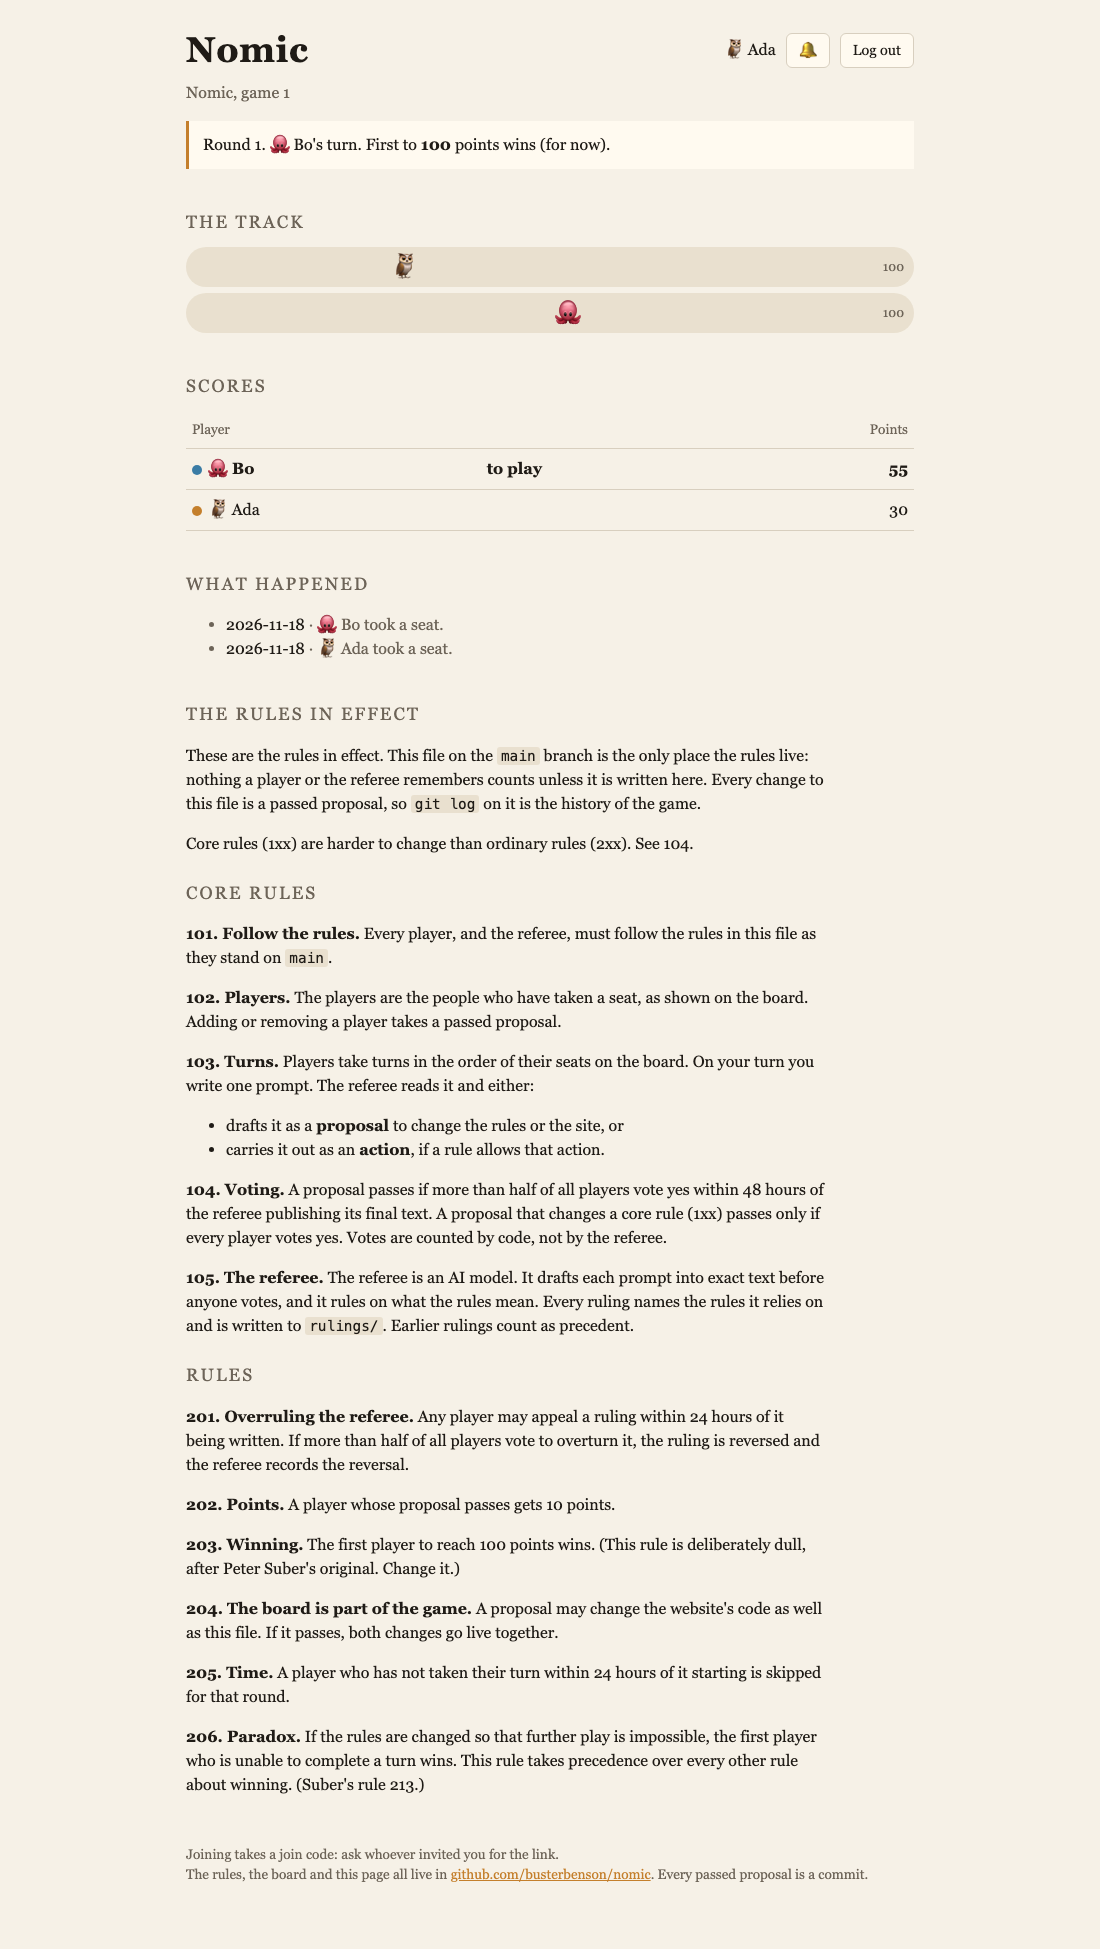
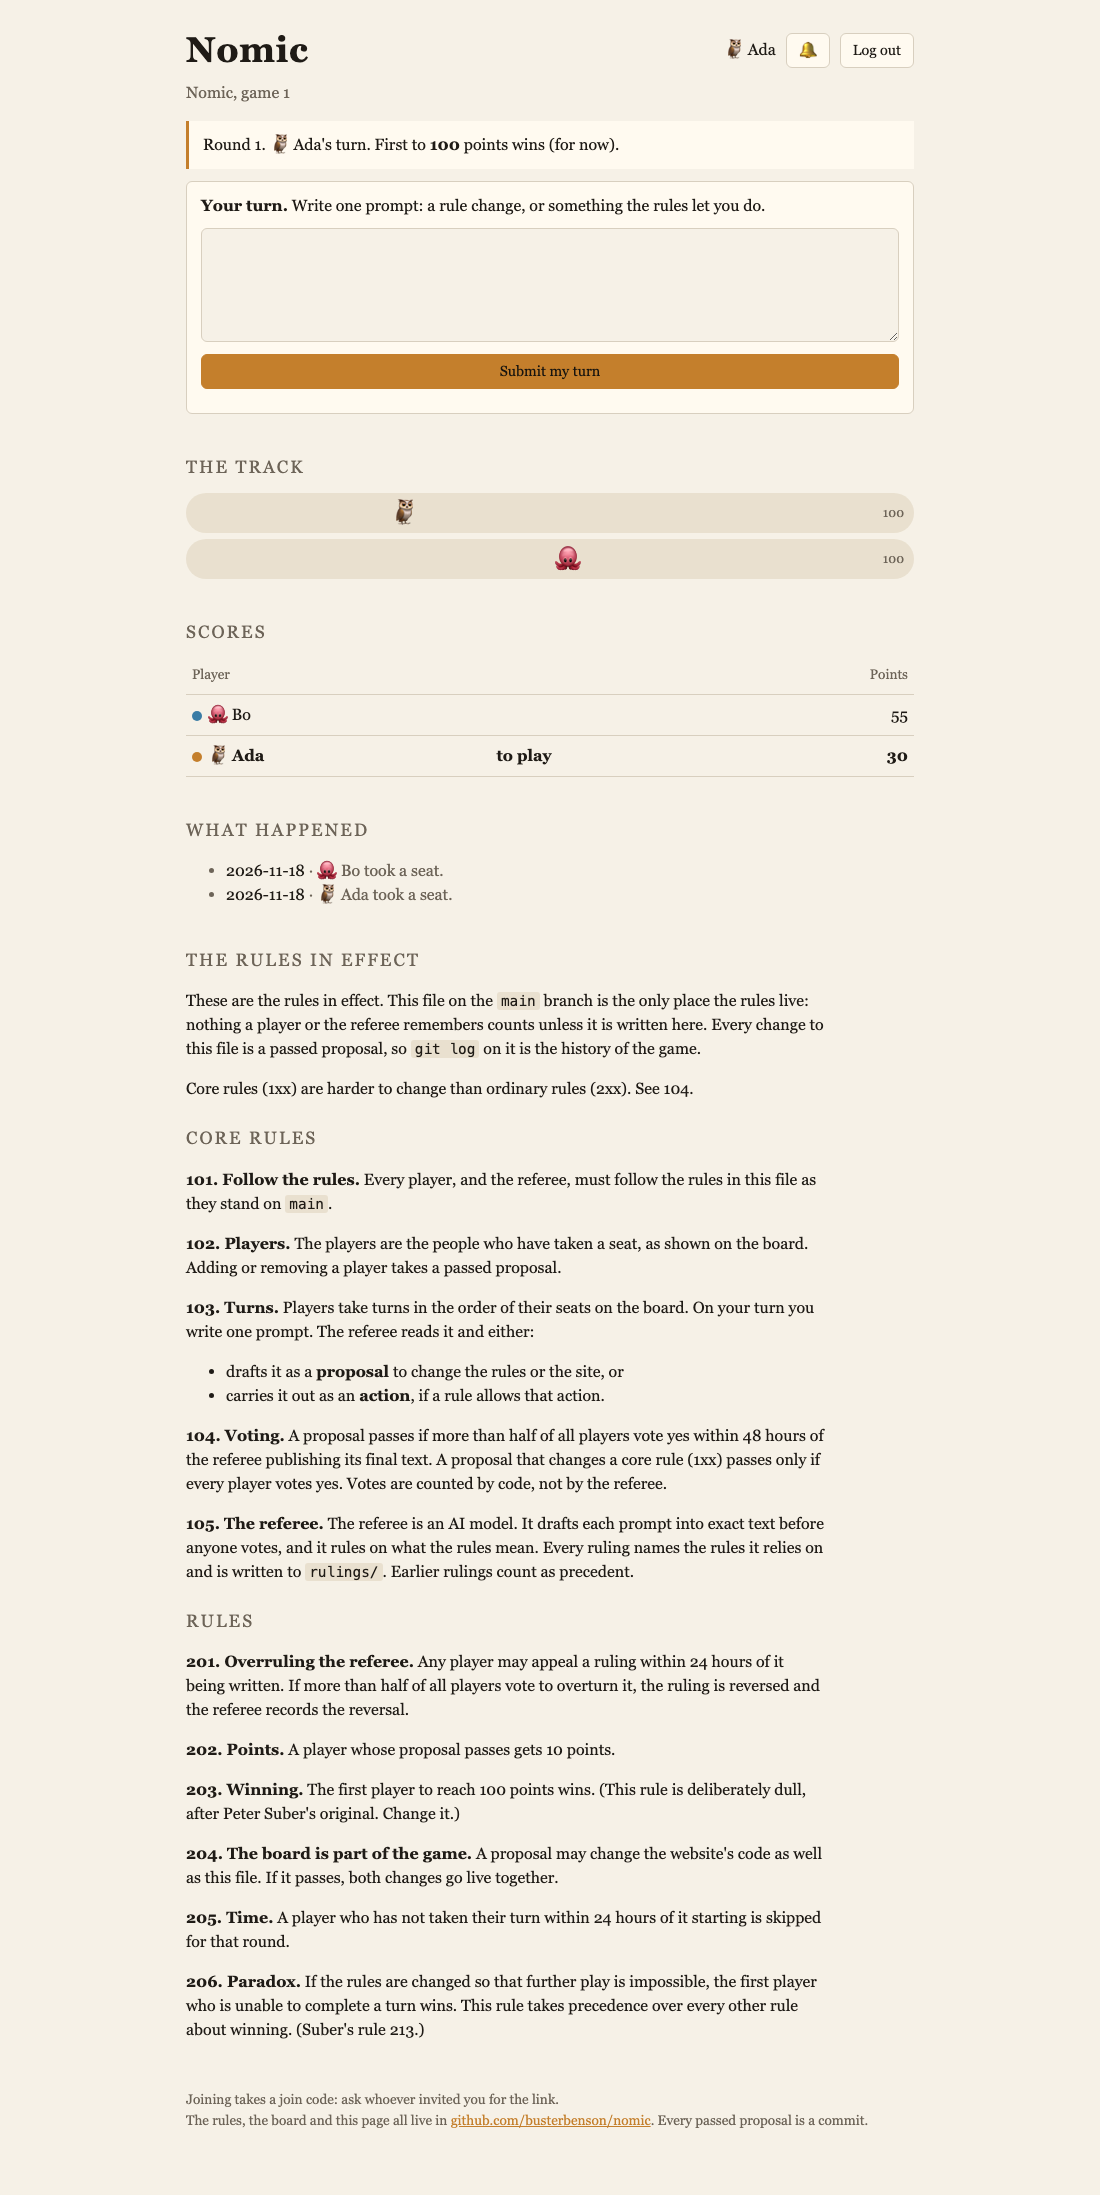
Record turns from the website; keep ZWNJ/ZWJ in names

diff --git a/index.html b/index.html
@@ -26,6 +26,8 @@
   </div>
   <div class="now" id="now">Loading the board…</div>
 
+  <div class="panel" id="turn-box" hidden></div>
+
   <h2>The track</h2>
   <div id="track"></div>
 
@@ -107,6 +109,7 @@
     let data = null; try { data = await res.json(); } catch (e) {}
     return { ok: res.ok, status: res.status, data };
   };
+  let ME = null, DATA = null;   // who is looking, and the last /api/game
   const when = iso => String(iso || "").slice(0, 10);
 
   function showNotice() {
@@ -118,6 +121,8 @@
   async function loadMe() {
     const me = await api("/api/me");
     const who = $("who");
+    ME = me.ok ? me.data : null;
+    drawTurn();
     if (!me.ok) {
       who.innerHTML = '<button id="login-btn" type="button">Log in</button>';
       $("login-btn").onclick = () => { $("login-panel").hidden = !$("login-panel").hidden; };
@@ -178,7 +183,49 @@
     }
   }
 
+  // The turn box: a form for the player whose turn it is, otherwise who is playing.
+  function drawTurn() {
+    const box = $("turn-box");
+    if (!DATA || DATA.game.status !== "playing") { box.hidden = true; return; }
+    const { game, players, turns } = DATA;
+    const current = players[game.turn];
+    if (!current) { box.hidden = true; return; }
+    const mine = ME && ME.player && ME.player.turn_order === game.turn;
+    const taken = turns.find(t => t.turn_index === game.turn);
+    let html = "";
+    if (mine && !taken) {
+      html = `<strong>Your turn.</strong> Write one prompt: a rule change, or something the rules let you do.
+        <form class="stack" id="turn-form" style="margin-top:10px; max-width:none">
+          <textarea name="prompt" rows="4" maxlength="2000" required aria-label="Your prompt"></textarea>
+          <button class="primary" type="submit">Submit my turn</button>
+          <div id="turn-msg" role="status"></div>
+        </form>`;
+    } else if (mine) {
+      html = `<strong>Your turn.</strong> Your prompt is in: waiting for the referee.
+        <blockquote class="prompt">${esc(taken.prompt)}</blockquote>`;
+    } else if (taken) {
+      html = `<strong>${esc(current.marker + " " + current.name)}</strong> took their turn. Waiting for the referee.
+        <blockquote class="prompt">${esc(taken.prompt)}</blockquote>`;
+    } else {
+      html = `<strong>${esc(current.marker + " " + current.name)}</strong> is playing.`;
+    }
+    box.innerHTML = html;
+    box.hidden = false;
+    const form = $("turn-form");
+    if (form) form.addEventListener("submit", async e => {
+      e.preventDefault();
+      const msg = $("turn-msg");
+      msg.textContent = "Sending…";
+      const r = await api("/api/turn", { prompt: new FormData(form).get("prompt") });
+      if (r.ok) { const g = await api("/api/game"); if (g.ok) drawGame(g.data); loadNotes(false); return; }
+      msg.className = "notice err";
+      msg.textContent = (r.data && r.data.error) || "Something went wrong.";
+    });
+  }
+
   function drawGame(data) {
+    DATA = data;
+    drawTurn();
     const game = data.game;
     // Players come ordered by turn_order; the marker identifies a player.
     const players = data.players || [];

diff --git a/functions/api/turn.ts b/functions/api/turn.ts
@@ -1,0 +1,44 @@
+// POST /api/turn {prompt}: the player whose turn it is submits their prompt.
+// This only RECORDS the turn. It does not advance games.turn: that happens when
+// the referee and the vote are built.
+import { getUser } from "../_lib/auth";
+import { notify } from "../_lib/notify";
+import { Ctx, currentGame, json, nowIso, readJson, siteUrl } from "../_lib/util";
+
+export const onRequestPost = async (ctx: Ctx) => {
+  const { env, request } = ctx;
+  const user = await getUser(env, request);
+  if (!user) return json({ error: "Log in to play a turn." }, 401);
+  const body = await readJson(request);
+  const prompt = typeof body?.prompt === "string" ? body.prompt.trim() : "";
+  if (!prompt || [...prompt].length > 2000) return json({ error: "Your prompt needs 1 to 2000 characters." }, 400);
+
+  const game = await currentGame(env);
+  if (!game) return json({ error: "There is no game yet." }, 404);
+  if (game.status !== "playing") return json({ error: "The game has not started, so there are no turns yet." }, 409);
+  const player: any = await env.DB.prepare("SELECT marker, turn_order FROM players WHERE game_id = ? AND user_id = ?")
+    .bind(game.id, user.id).first();
+  if (!player) return json({ error: "You are not a player in this game." }, 403);
+  if (player.turn_order !== game.turn) return json({ error: "It is not your turn." }, 403);
+
+  const now = nowIso();
+  try {
+    await env.DB.prepare(
+      "INSERT INTO turns (id, game_id, user_id, round, turn_index, prompt, status, created_at, updated_at) VALUES (?, ?, ?, ?, ?, ?, 'submitted', ?, ?)",
+    ).bind(crypto.randomUUID(), game.id, user.id, game.round, game.turn, prompt, now, now).run();
+  } catch {
+    return json({ error: "You already took your turn this round." }, 409);
+  }
+  const name = user.display_name;
+  await env.DB.prepare("INSERT INTO events (game_id, kind, text, created_at) VALUES (?, 'turn_submitted', ?, ?)")
+    .bind(game.id, `${player.marker} ${name} took their turn.`, now).run();
+  try {
+    await notify(env, ctx, game.id, {
+      kind: "turn_submitted", body: `${player.marker} ${name} took their turn.`, link: "/",
+      email: true, exceptUserId: user.id, baseUrl: siteUrl(env, request),
+    });
+  } catch (e: any) {
+    console.error("notify failed after turn:", e?.message || e);
+  }
+  return json({ ok: true, status: "submitted", message: "Turn recorded. Waiting for the referee." });
+};

diff --git a/functions/api/game.ts b/functions/api/game.ts
@@ -14,7 +14,20 @@ export const onRequestGet = async ({ env }: Ctx) => {
       .bind(g.id)
       .all()
   ).results;
+  // Prompts for the current round are public to the table. No emails or ids.
+  const turns = (
+    await env.DB.prepare(
+      `SELECT u.display_name AS name, p.marker, t.turn_index, t.prompt, t.status, t.created_at
+       FROM turns t JOIN users u ON u.id = t.user_id
+       JOIN players p ON p.game_id = t.game_id AND p.user_id = t.user_id
+       WHERE t.game_id = ? AND t.round = ? AND t.status != 'withdrawn' ORDER BY t.created_at`,
+    ).bind(g.id, g.round).all()
+  ).results;
+  const current = players.find((p: any) => p.turn_order === g.turn);
+  const mine = turns.find((t: any) => t.turn_index === g.turn);
   return json({
+    turn_status: g.status === "playing" && current ? (mine ? (mine as any).status : "waiting") : null,
+    turns,
     game: {
       name: g.name,
       status: g.status,

diff --git a/functions/_lib/util.ts b/functions/_lib/util.ts
@@ -77,7 +77,7 @@ export const normEmail = (s: string) => s.trim().toLowerCase();
 // up in email subjects and the public log).
 export function cleanName(s: unknown): string | null {
   if (typeof s !== "string") return null;
-  const t = s.replace(/[\u0000-\u001f\u007f]/g, " ").replace(/[\u200B-\u200F\u202A-\u202E\u2060-\u2069\uFEFF]/g, "").replace(/\s+/g, " ").trim(); // \s also folds U+2028/2029
+  const t = s.replace(/[\u0000-\u001f\u007f]/g, " ").replace(/[\u200B\u200E\u200F\u202A-\u202E\u2060-\u2069\uFEFF]/g, "").replace(/\s+/g, " ").trim(); // \s also folds U+2028/2029
   return t.length >= 1 && [...t].length <= 40 ? t : null;
 }
 

diff --git a/site.css b/site.css
@@ -76,3 +76,7 @@ input[type=email], input[type=text] { font: inherit; padding: 8px 10px; color: v
 .markers input:disabled + span { opacity: 0.3; cursor: not-allowed; }
 .dev { font-size: 0.8rem; color: var(--muted); overflow-wrap: anywhere; }
 .badge[hidden] { display: none; }
+textarea { font: inherit; padding: 8px 10px; color: var(--ink); background: var(--bg);
+  border: 1px solid var(--line); border-radius: 6px; width: 100%; resize: vertical; }
+blockquote.prompt { margin: 10px 0 0; padding: 8px 12px; border-left: 3px solid var(--line);
+  white-space: pre-wrap; overflow-wrap: anywhere; }

diff --git a/tests/screenshot.py b/tests/screenshot.py
@@ -21,6 +21,17 @@ with sync_playwright() as p:
         page.wait_for_selector("#notes li")
         page.screenshot(path=f"{out}/board-{name}-notifications.png")
         ctx.close()
+    # the logged-in player is up: the turn form, then after submitting
+    ctx = b.new_context(viewport={"width": 390, "height": 844}, device_scale_factor=2)
+    ctx.add_cookies([{"name": "nomic_session", "value": cookie, "url": base}])
+    page = ctx.new_page()
+    page.goto(base + "/"); page.wait_for_selector("#turn-form")
+    page.screenshot(path=f"{out}/turn-phone-form.png", clip={"x": 0, "y": 0, "width": 390, "height": 520})
+    page.fill("textarea[name=prompt]", "Anyone who proposes a rule about cats gets 5 points.")
+    page.click("#turn-form button")
+    page.wait_for_selector("blockquote.prompt")
+    page.screenshot(path=f"{out}/turn-phone-submitted.png", clip={"x": 0, "y": 0, "width": 390, "height": 520})
+    ctx.close()
     # logged out + join page
     ctx = b.new_context(viewport={"width": 390, "height": 844}, device_scale_factor=2)
     page = ctx.new_page()

diff --git a/DESIGN.md b/DESIGN.md
@@ -51,16 +51,22 @@ broke down because the model lost track of which rules were in effect.)
 
 ## A turn
 
-1. **Prompt.** The player whose turn it is opens a GitHub issue with one prompt,
-   e.g. "Anyone who proposes a rule about cats gets 5 points."
-2. **Draft.** The referee replies on the issue with:
+1. **Prompt.** The player whose turn it is logs in to the website and submits one
+   prompt in the "Your turn" box, e.g. "Anyone who proposes a rule about cats gets
+   5 points." (Turns come in through the site, not GitHub issues, so players do not
+   need GitHub accounts.) The site records it in the `turns` table as `submitted`,
+   shows it to the whole table, and notifies the other players. One live turn per
+   player per round; 1 to 2000 characters. **Built.**
+   *Not built yet:* submitting does **not** advance the turn. The turn moves on
+   only when the referee and the vote exist (next PR), so for now a submitted turn
+   just waits, and `games.turn` / `games.round` are changed by hand.
+2. **Draft.** The referee replies on the turn with:
    - whether this is a **proposal** (it changes the rules or the site) or an
      **action** (something a rule already allows);
    - for a proposal, the exact new text and a PR containing it;
    - the rules it relied on, and any conflicts it found.
    The player can revise the prompt until the draft says what they meant.
-3. **Vote.** Players vote on the PR with a comment, `/vote yes` or `/vote no`.
-   Code counts the votes (rule 104), not the referee.
+3. **Vote.** Players vote on the website (or on the PR; undecided). Code counts the votes (rule 104), not the referee.
 4. **Result.** If the vote passes, the PR merges, the game state in D1 is updated
    (points, next turn, a log line), and the board updates. If it fails, the PR is
    closed and the turn moves on.
@@ -95,9 +101,9 @@ code, not in the referee's instructions:
 - **Referee access to D1.** The referee (a GitHub Action today) will get its own
   D1 access later, with a narrow token that can write scores, turns and
   notifications but not accounts or sessions. Not built.
-- **How players submit turns.** GitHub issues mean every player needs a GitHub
-  account. The alternative is a small form on the site that files the issue for
-  them.
+- **How the referee gets a turn.** The site records the turn; the referee will
+  read `turns` rows with status `submitted` (mechanism not built: a Pages Function
+  calling the Claude API, or a scheduled job).
 - **The referee's model and API key.** Which model, and whose key pays for it.
   Each turn is a few calls; the cost per game should be small.
 - **Publishing.** Creating the Cloudflare Pages project and D1 database, and

diff --git a/README.md b/README.md
@@ -65,6 +65,7 @@ node tests/seed-demo.mjs /some/dir   # seeds two players and takes screenshots (
 To start a game by hand (no referee yet):
 `npx wrangler d1 execute DB --local --command "UPDATE games SET status='playing', round=1, turn=0"`
 (add `--remote` against the deployed database).
+Once playing, the player whose turn it is (`games.turn` = their seat number, from 0) sees a "Your turn" box on the board and submits one prompt per round. This only records the turn; nothing advances `turn` or `round` yet.
 
 ## Email
 
